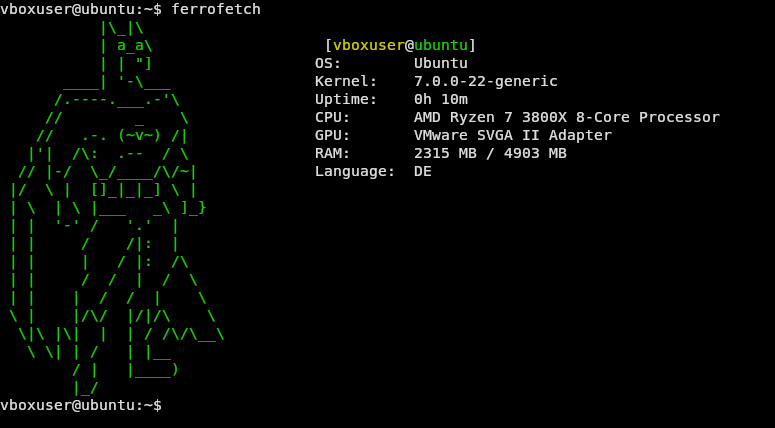
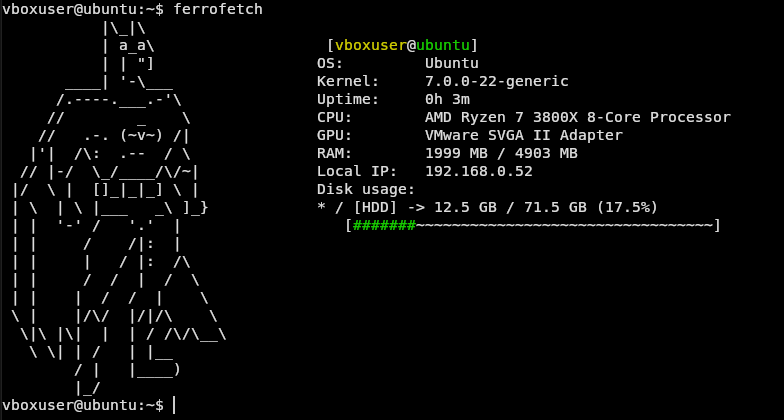
update screenshot with all new features and in README.md

Changed region(s): [[0.0, 0.0, 0.3406, 0.9905], [0.4026, 0.0929, 0.929, 0.5571], [0.2168, 0.8667, 0.2477, 0.8976]]

diff --git a/README.md b/README.md
@@ -16,7 +16,8 @@ Ferro means iron on latin and iron get's Rusty and the project is written in Rus
 - CPU name
 - GPU name
 - RAM (used/total)
-- System language
+- local IP Adress
+- Disk Usage with bar
 - ASCII banners
 - Adjustable color and different banners with cli arguments
 